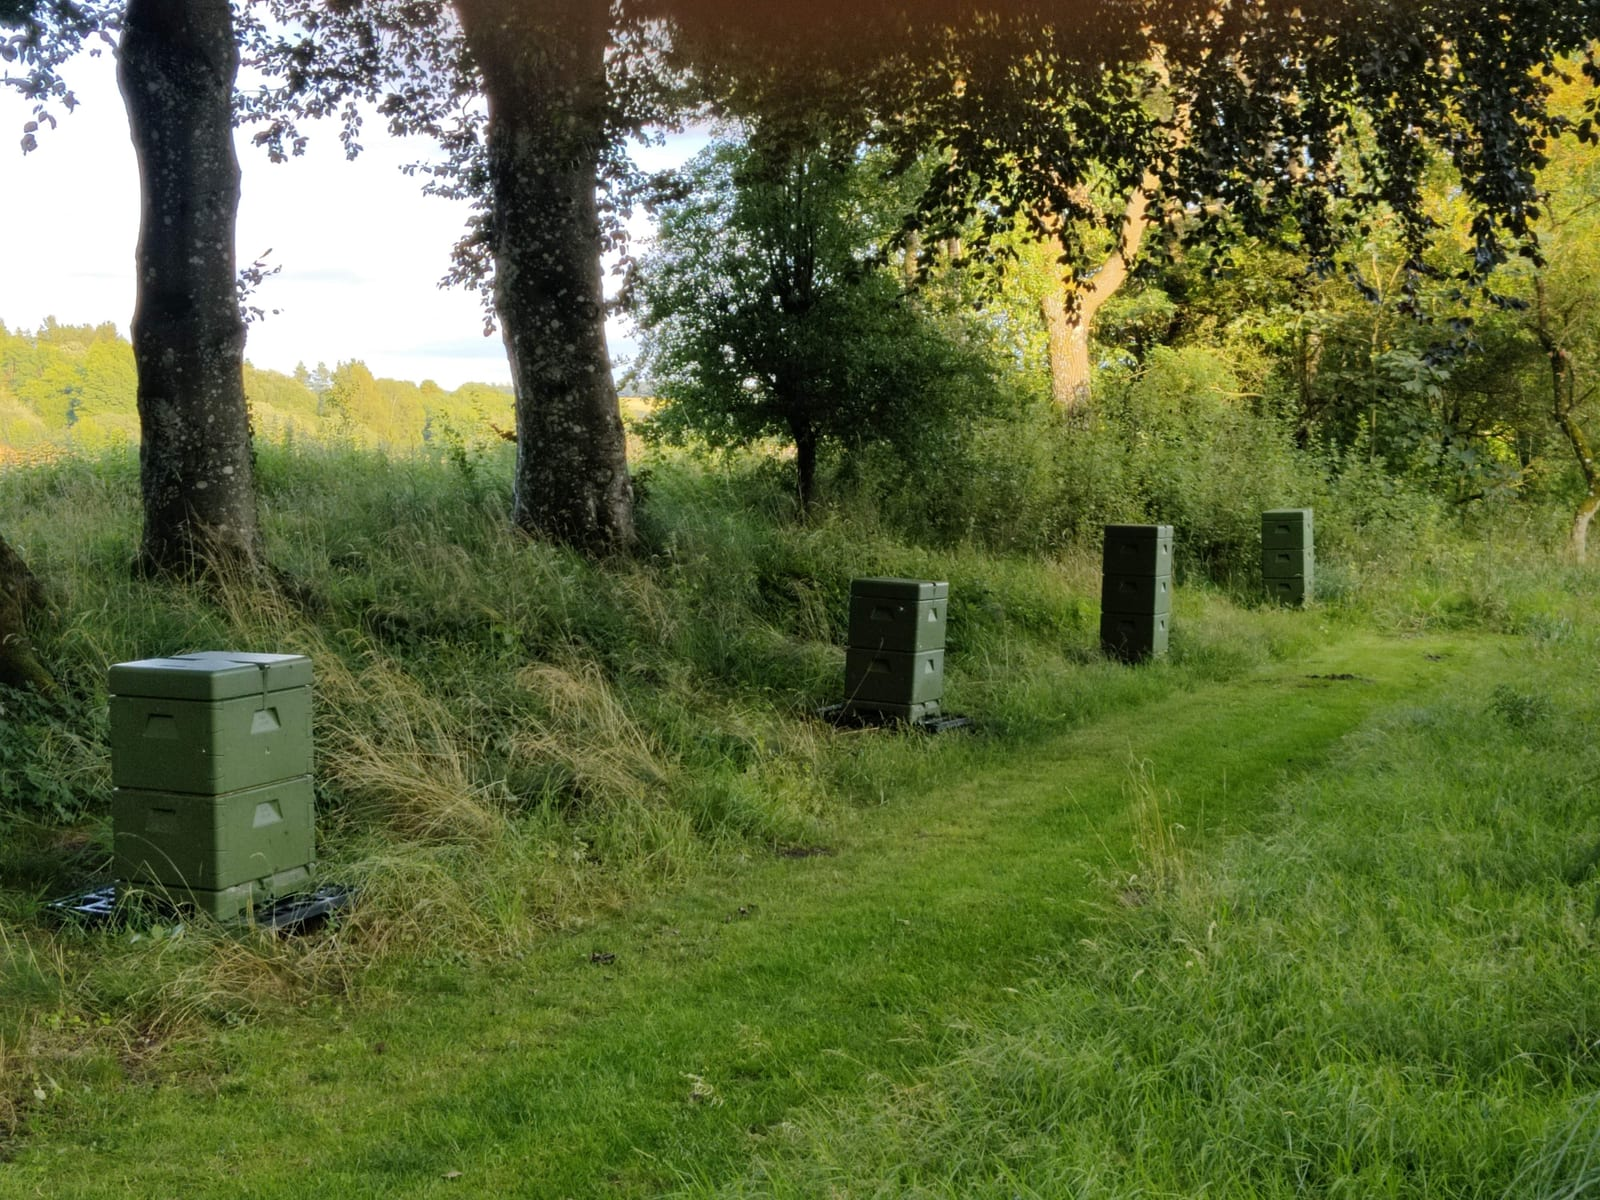
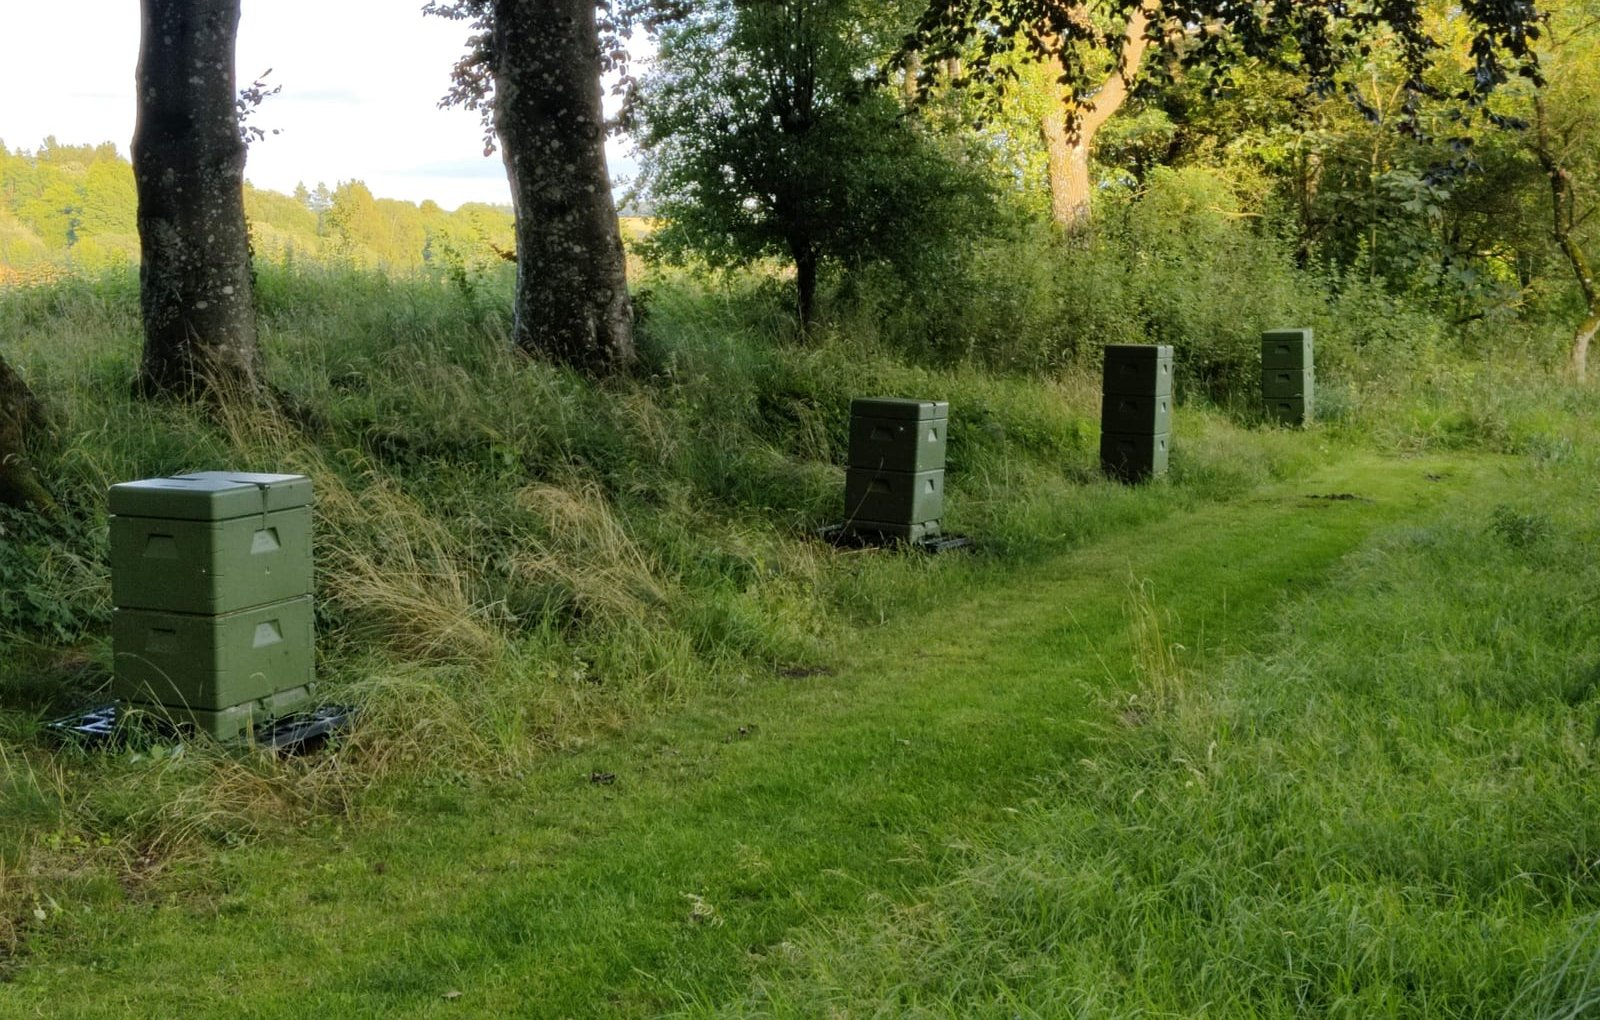
x

diff --git a/content/om.md b/content/om.md
@@ -9,8 +9,8 @@ permalink: /om/
 ![Skovejendommen ved Hinge med bistader i udkanten af engen](/assets/img/om-bigaarden.jpg)
 
 For mere end ti år siden startede jeg som aldeles nybegynder inden for biavl. I dag
-passer jeg nogle bifamilier på en skovejendom ved Hinge — som en hobby, der er
-vokset sig til en fascination af biernes liv og deres rolle i naturen.
+passer jeg mine bifamilier på en skovejendom ved Hinge — som en hobby, der er
+vokset til en fascination af biernes liv og deres rolle i naturen.
 
 Denne side samler mine artikler om honningbier, biavl og biodiversitet. Jeg skriver
 med afsæt i dansk faglitteratur, men altid ud fra det, jeg selv oplever ude ved staderne.

diff --git a/docs/superpowers/plans/2026-07-20-henrikshonning-website.md b/docs/superpowers/plans/2026-07-20-henrikshonning-website.md
@@ -659,8 +659,8 @@ permalink: /om/
 ---
 
 For mere end ti år siden startede jeg som aldeles nybegynder inden for biavl. I dag
-passer jeg nogle bifamilier på en skovejendom ved Hinge — som en hobby, der er
-vokset sig til en fascination af biernes liv og deres rolle i naturen.
+passer jeg mine bifamilier på en skovejendom ved Hinge — som en hobby, der er
+vokset til en fascination af biernes liv og deres rolle i naturen.
 
 Denne side samler mine artikler om honningbier, biavl og biodiversitet. Jeg skriver
 med afsæt i dansk faglitteratur, men altid ud fra det, jeg selv oplever ude ved staderne.

diff --git a/content/artikler/04-mange-slags-honning.md b/content/artikler/04-mange-slags-honning.md
@@ -3,7 +3,7 @@ title: Mange slags honning
 category: Honningen
 date: 2026-07-04
 image: /assets/img/mange-slags-honning.jpg
-imageAlt: Kasse med glas af Henriks Honning sommerhonning
+imageAlt: Glas med nyskåret tavlehonning på række på køkkenbordet efter høst
 description: Al honning er ikke ens. Smag, farve og konsistens afhænger af, hvilke blomster bierne har besøgt. Om de danske honningtyper – og hvorfor honning før eller siden bliver fast.
 kilder:
   - "Danmarks Biavlerforening, biavl.dk: om honning og honningtyper"

diff --git a/content/artikler/07-fra-blomst-til-glas.md b/content/artikler/07-fra-blomst-til-glas.md
@@ -3,7 +3,7 @@ title: Fra blomst til glas
 category: Honningen
 date: 2026-07-07
 image: /assets/img/fra-blomst-til-glas.jpg
-imageAlt: Åbent bistade med tavler dækket af bier og honning
+imageAlt: Nyhøstet tavlehonning skæres i blokke med kniv på en rist i køkkenet
 description: Hvordan bliver tynd blomsternektar til tyk, holdbar honning? Følg rejsen fra blomstens nektar gennem biernes honningmave og tavler til det færdige glas på bordet.
 kilder:
   - "Danmarks Biavlerforening, biavl.dk: 'Lidt om honningbiernes levevis' – nektar, honningmave og honningdannelse"